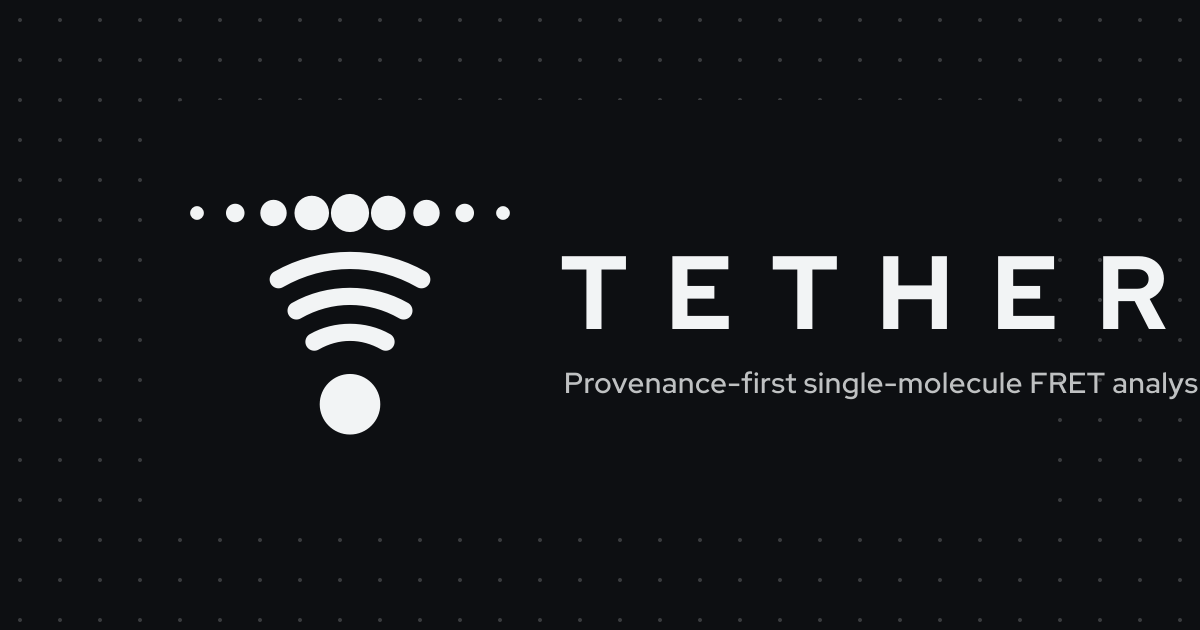
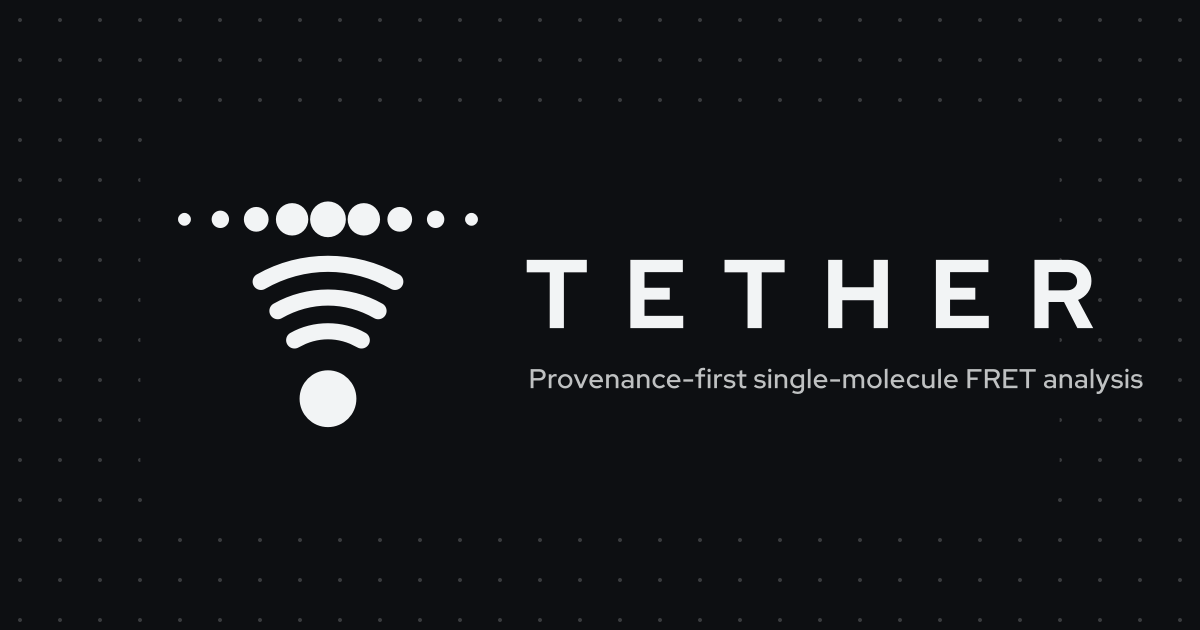
fix(brand): fit the 1200 x 630 social card to its canvas (#683)
social() drew the mark, the word and the tagline at fixed positions for the
1280 x 640 GitHub social preview, so at 1200 px the tagline ran past the right
edge and the final R touched it. The lockup is now drawn on the 1280 x 640
reference and scaled by min(1, w/1280, h/640), centred on the canvas. At the
reference size the SVG is unchanged, so the GitHub preview and the other 127
kit files rebuild byte for byte; only social-card-1200x630.png changes.

A regression test checks that the outer 40 px band of the committed card holds
only the ground and the dot field. It fails on the previous card.

Changed region(s): [[0.4317, 0.3921, 0.9867, 0.5429], [0.1233, 0.3016, 0.4317, 0.6937], [0.4317, 0.573, 1.0, 0.6333]]

diff --git a/scripts/brand/build.py b/scripts/brand/build.py
@@ -303,12 +303,24 @@ def build_installer() -> None:
 
 
 # --- social cards ----------------------------------------------------------------
+SOCIAL_REF = (1280, 640)  # the canvas the mark, word and tagline positions are drawn for
+
+
 def social(w: int, h: int, tagline: str = TAGLINE) -> str:
+    """The social card at ``w`` x ``h``: the dot field fills the canvas, and the lockup
+    (mark, word, tagline) is drawn on the 1280 x 640 reference and scaled to the canvas.
+
+    The scale is the smaller of the two canvas-to-reference ratios, never above 1, and the
+    lockup stays centred, so a narrower card keeps the right margin of the reference in
+    proportion (#683: at 1200 px the unscaled tagline ran past the edge). At the reference
+    size the drawing is unchanged.
+    """
+    rw, rh = SOCIAL_REF
     bg = f'<rect width="{w}" height="{h}" fill="{GROUND}"/>'
     fld = b.field_dots(w, h, CHALK, 40, 2.0, 0.20, x0=20, y0=20)
-    cy = h / 2
+    cy = rh / 2
     clear = (
-        f'<rect x="150" y="{f(cy - 215)}" width="{w - 300}" height="430" rx="40" fill="{GROUND}"/>'
+        f'<rect x="150" y="{f(cy - 215)}" width="{rw - 300}" height="430" rx="40" fill="{GROUND}"/>'
     )
     xf = f"translate(350 {f(cy)}) scale(2.55) translate(-100 -89)"
     g = f'<g transform="{xf}">{b.glyph(CHALK, grid=False)}</g>'
@@ -319,7 +331,12 @@ def social(w: int, h: int, tagline: str = TAGLINE) -> str:
         if tagline
         else ""
     )
-    return svg(bg + fld + clear + g + wm + tl, w, h)
+    lockup = clear + g + wm + tl
+    k = min(1.0, w / rw, h / rh)
+    if (w, h) != (rw, rh):
+        fit = f"translate({f(w / 2)} {f(h / 2)}) scale({f(k)}) translate({f(-rw / 2)} {f(-rh / 2)})"
+        lockup = f'<g transform="{fit}">{lockup}</g>'
+    return svg(bg + fld + lockup, w, h)
 
 
 def build_social() -> None:

diff --git a/tests/test_brand_kit.py b/tests/test_brand_kit.py
@@ -238,6 +238,37 @@ def test_the_16px_icon_is_the_same_image_in_every_container() -> None:
         assert other.tobytes() == png.tobytes()
 
 
+# The outer band of the social card that only the ground and the dot field may reach. The dot
+# field is CHALK at opacity 0.20, so with smoothing its brightest pixel sits near 0.20 of the
+# way from GROUND to CHALK; the word (opacity 1) and the tagline (0.78) reach far above 0.35.
+SOCIAL_MARGIN_PX = 40
+SOCIAL_TEXT_FLOOR = 0.35
+
+
+def test_the_social_card_keeps_the_word_and_the_tagline_inside_its_margins() -> None:
+    """#683: at 1200 x 630 the tagline ran past the right edge and the final R touched it."""
+    Image = pytest.importorskip("PIL.Image")
+    card = Image.open(DOCS / "social-card-1200x630.png").convert("RGB")
+    w, h = card.size
+    ground = int(BRAND_COLORS["ground"][3:5], 16)
+    chalk = int(BRAND_COLORS["chalk"][3:5], 16)
+    green = card.getchannel("G")
+    m = SOCIAL_MARGIN_PX
+    bands = {
+        "right": (w - m, 0, w, h),
+        "left": (0, 0, m, h),
+        "top": (0, 0, w, m),
+        "bottom": (0, h - m, w, h),
+    }
+    brightest = {
+        side: round((green.crop(box).getextrema()[1] - ground) / (chalk - ground), 3)
+        for side, box in bands.items()
+    }
+    assert all(v <= SOCIAL_TEXT_FLOOR for v in brightest.values()), brightest
+    # The dot field is still drawn in the band, so the test cannot pass on a blank margin.
+    assert min(brightest.values()) >= 0.1, brightest
+
+
 def test_the_brand_colors_agree_between_tokens_and_the_brand_page() -> None:
     tokens = json.loads((GUI / "tokens.json").read_text(encoding="utf-8"))
     assert tokens["brand"] == BRAND_COLORS

diff --git a/scripts/brand/README.md b/scripts/brand/README.md
@@ -41,7 +41,7 @@ set, the GitHub social preview (1280 × 640), the larger installer images and th
 
 The maintainer approved the kit as the archive `tether-brand-kit.zip` (SHA-256
[1 lines of base64/hex data omitted]
-versions above, `build.py` makes the 129 files of that archive again, byte for byte, with two
+versions above, `build.py` makes the 129 files of that archive again, byte for byte, with three
 deliberate changes:
 
 1. **The 16 px icon is fitted to the pixel grid.** At 16 px the curves of the tiny mark fall
@@ -53,6 +53,12 @@ deliberate changes:
    `build.py` writes that image again on each run.
 2. **The font license file is the upstream file.** The archive's `OFL-1.1.txt` had a
    rewritten copyright line. The repository keeps the upstream `OFL.txt` instead.
+3. **The 1200 × 630 social card fits its canvas** (#683). `social()` draws the mark, the word
+   and the tagline for the 1280 × 640 GitHub social preview. At 1200 px the tagline ran past
+   the right edge. `social()` now scales that group by the smaller of the two ratios of the
+   canvas to 1280 × 640 (never above 1) and keeps it centred, so the social card has a right
+   margin in proportion to the preview. This changes one file, `social-card-1200x630.png`.
+   The 1280 × 640 preview does not change.
 
 One more difference is in the copy step only, not in the kit: the SVGs in
 `docs/assets/brand/` that `docs/brand.md` shows get a `width` and a `height` (`PAGE_PX` in
